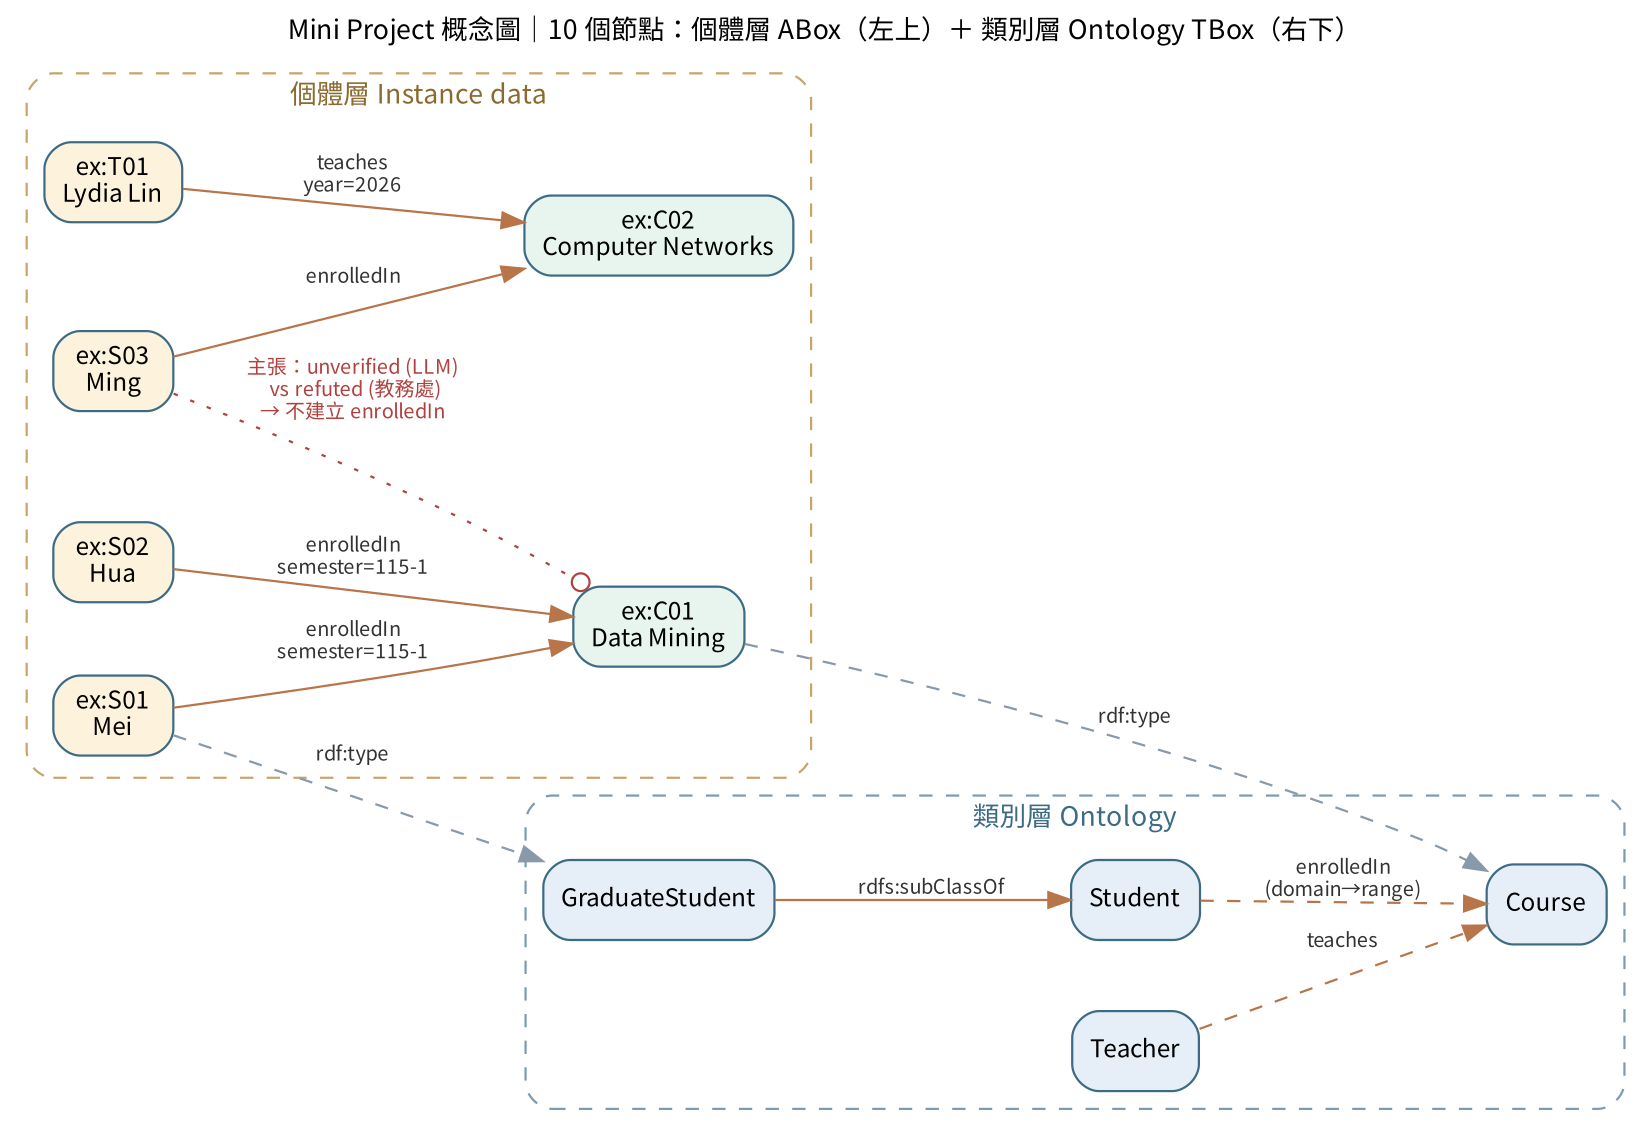
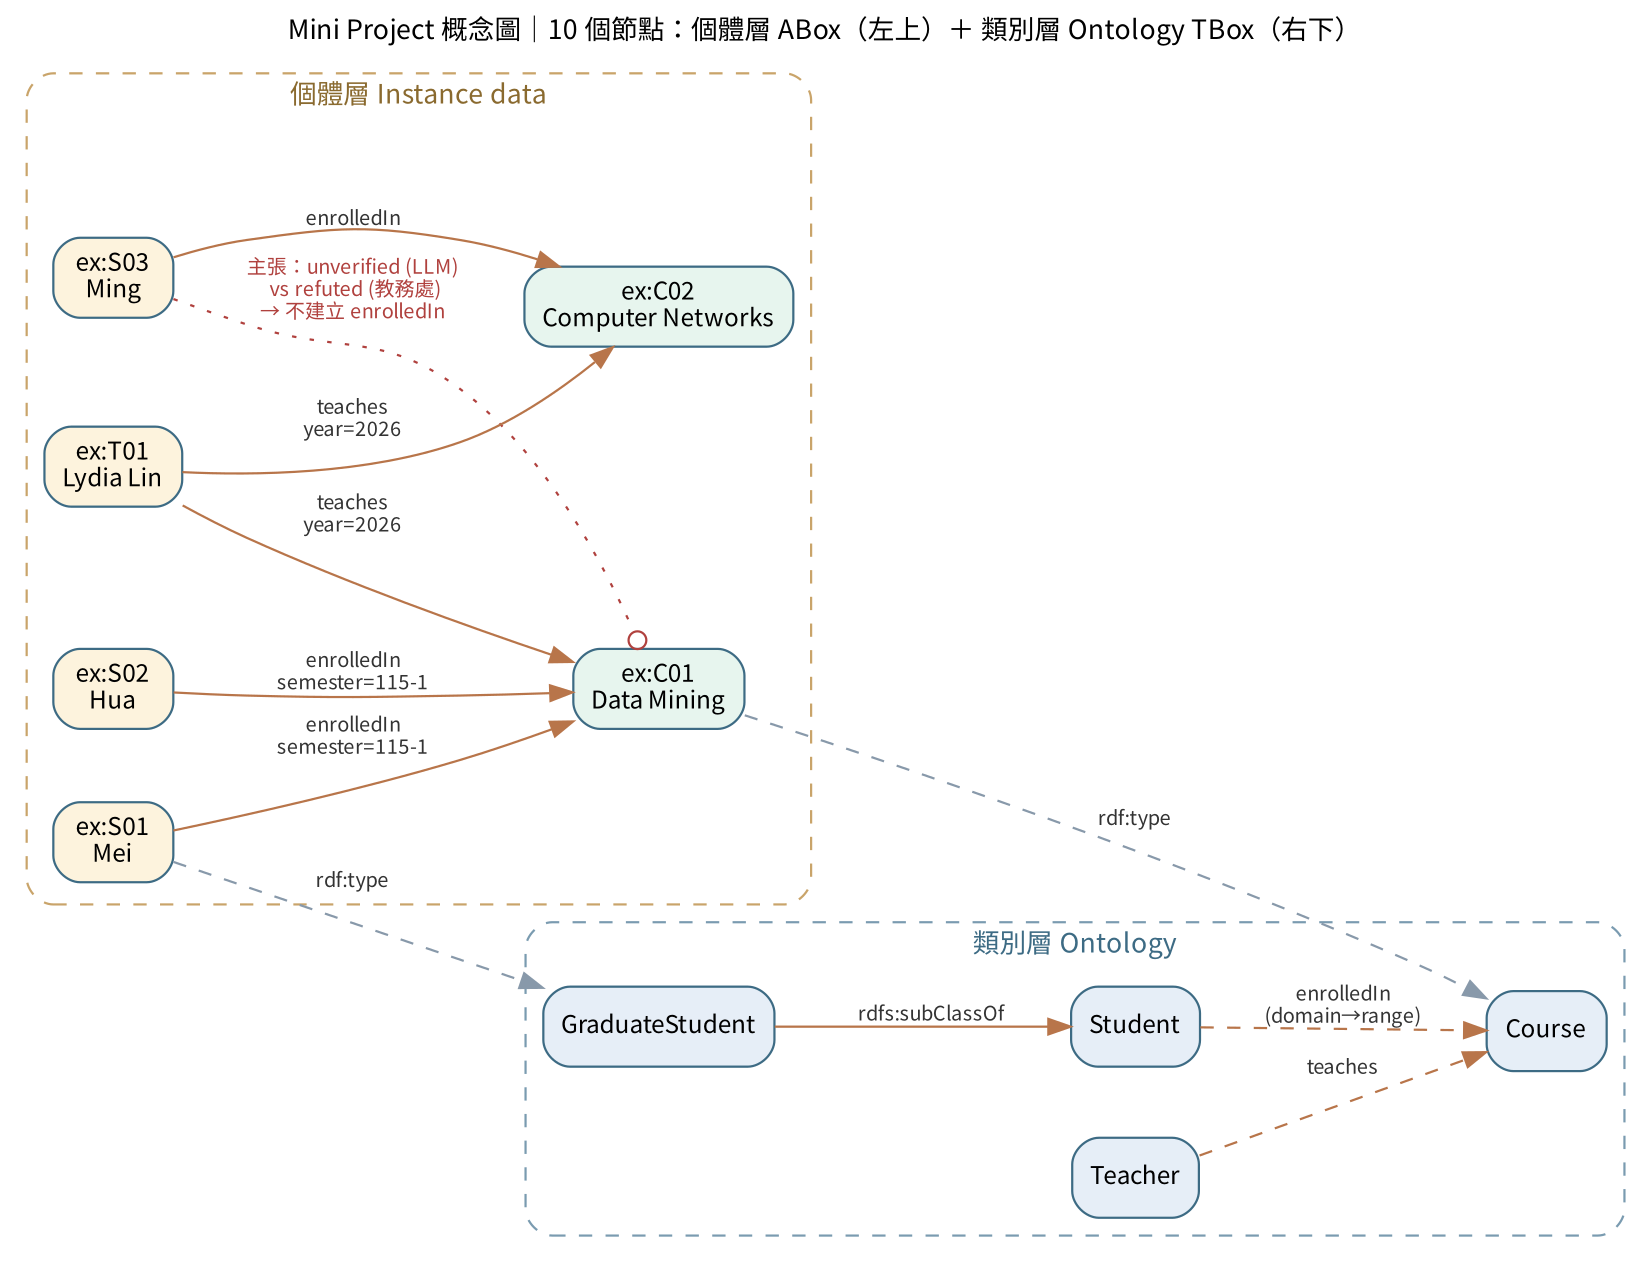
Lydia Lin teaches two courses (C01 and C02)
Claude-Session: https://claude.ai/code/session_01PpjMTUndCfpcmoYj578o3c

diff --git a/test_kg.py b/test_kg.py
@@ -147,6 +147,14 @@ def test_NEG_duplicate_course_node_detected():
     assert len(ids) != len(set(ids)), "偵測函式應發現重複 id"
 
 
+def test_one_teacher_teaches_two_courses(rdf, lpg):
+    """Lydia Lin（T01）授兩門課：仍只有一個 Teacher 節點，連到兩門課"""
+    assert set(rdf.objects(EX.T01, EX.teaches)) == {EX.C01, EX.C02}
+    teachers = [n for n, d in lpg.nodes(data=True) if "Teacher" in d["labels"]]
+    assert teachers == ["T01"]
+    assert sorted(v for u, v, d in lpg.edges(data=True) if u == "T01" and d["type"] == "TEACHES") == ["C01", "C02"]
+
+
 # ════════════════ 查詢可執行性（20%）════════════════
 def test_sparql_students_of_c01(rdf):
     got = [(str(r.s).rsplit("/", 1)[-1], str(r.name)) for r in rdf.query(b.SPARQL_STUDENTS_OF_C01)]

diff --git a/build_kg.py b/build_kg.py
@@ -73,7 +73,7 @@ def load_sources():
             report["rejected"].append(f"claims.csv:{row_no} 無法對應的 ID")
 
     report["counts"] = {"students": len(students), "courses": len(courses),
-                        "teachers": len(teaching), "enrollments": len(enrollments),
+                        "teachers": len({r["teacher_no"] for r in teaching}), "teaching_links": len(teaching), "enrollments": len(enrollments),
                         "claims": len(claims)}
     return students, courses, enrollments, teaching, claims, report
 
